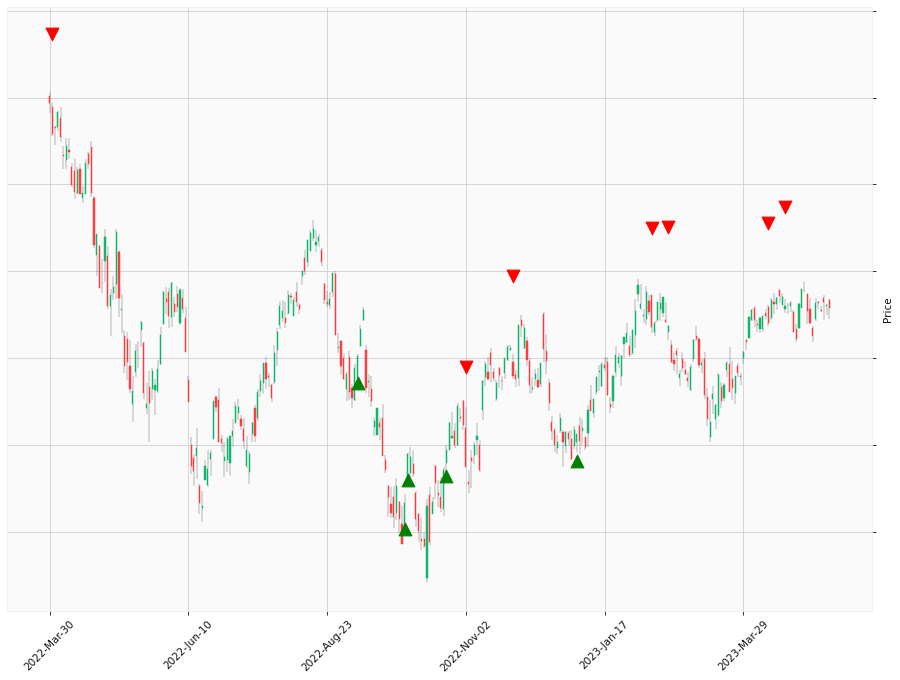
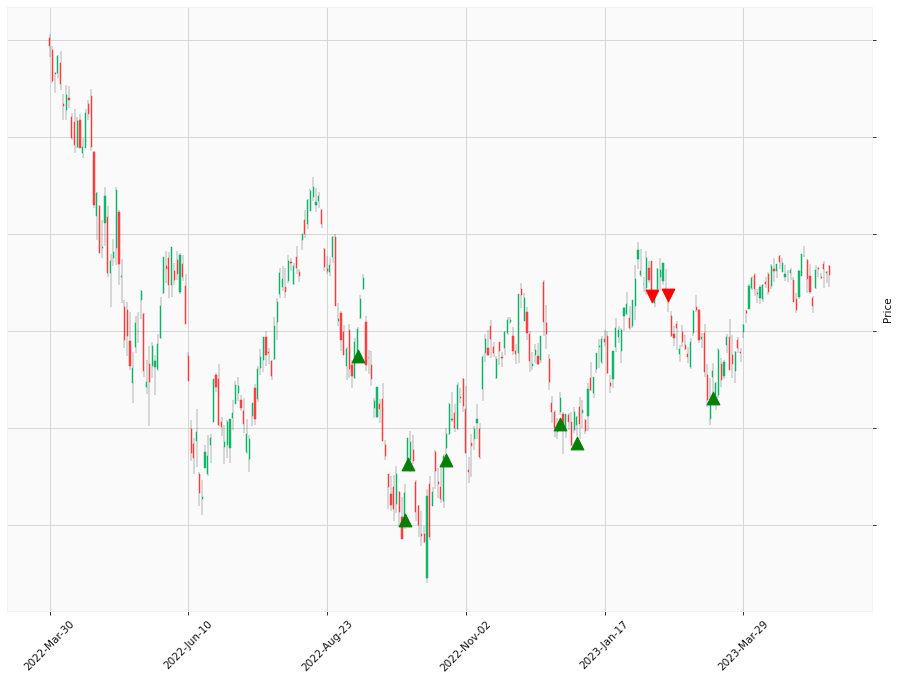
See https://github.com/HappyLabz/HappyLabz_v1/commit/cb9b6fe0ee2acf81d13b021fb5c5829de6719884 from refs/heads/main

diff --git a/index.md b/index.md
@@ -154,8 +154,8 @@ footer a {
     <div class="box gray">
         <h2 id="aapl"><a href="{% link AAPL.md %}">AAPL</a></h2>
         <ul>
-            <li>LAST: <b><span style="color: #ff0000;">Short</span></b> Apr 05 2023 15:00 PST</li>
-            <li>DELTA: <b><span style="color: #167816;">8.81 (5.38%)</span></b> as of close May 15 2023</li>
+            <li>LAST: <b><span style="color: #167816;">Long</span></b> Mar 02 2023 15:00 PST</li>
+            <li>DELTA: <b><span style="color: #167816;">26.66 (18.27%)</span></b> as of close May 15 2023</li>
         </ul>
     </div>
     <div class="box gray">
@@ -182,8 +182,8 @@ footer a {
     <div class="box gray">
         <h2 id="spy"><a href="{% link SPY.md %}">SPY</a></h2>
         <ul>
-            <li>LAST: <b><span style="color: #ff0000;">Short</span></b> Apr 20 2023 15:00 PST</li>
-            <li>DELTA: <b><span style="color: #ff0000;">-0.29 (-0.07%)</span></b> as of close May 15 2023</li>
+            <li>LAST: <b><span style="color: #167816;">Long</span></b> Mar 14 2023 15:00 PST</li>
+            <li>DELTA: <b><span style="color: #167816;">19.86 (5.07%)</span></b> as of close May 15 2023</li>
         </ul>
     </div>
     <div class="box gray">

diff --git a/SPY.md b/SPY.md
@@ -105,15 +105,7 @@ footer a {
     </tr>
     <tr>
         <td>Short</td>
-        <td>Nov 09 2021 15:00 PST</td>
-    </tr>
-    <tr>
-        <td>Short</td>
         <td>Nov 10 2021 15:00 PST</td>
-    </tr>
-    <tr>
-        <td>Short</td>
-        <td>Mar 31 2022 15:00 PST</td>
     </tr>
     <tr>
         <td>Long</td>
@@ -132,12 +124,8 @@ footer a {
         <td>Oct 24 2022 15:00 PST</td>
     </tr>
     <tr>
-        <td>Short</td>
-        <td>Nov 02 2022 15:00 PST</td>
-    </tr>
-    <tr>
-        <td>Short</td>
-        <td>Nov 28 2022 15:00 PST</td>
+        <td>Long</td>
+        <td>Dec 21 2022 15:00 PST</td>
     </tr>
     <tr>
         <td>Long</td>
@@ -152,12 +140,8 @@ footer a {
         <td>Feb 17 2023 15:00 PST</td>
     </tr>
     <tr>
-        <td>Short</td>
-        <td>Apr 12 2023 15:00 PST</td>
-    </tr>
-    <tr>
-        <td>Short</td>
-        <td>Apr 20 2023 15:00 PST</td>
+        <td>Long</td>
+        <td>Mar 14 2023 15:00 PST</td>
     </tr>
     
 </table>

diff --git a/AAPL.md b/AAPL.md
@@ -121,10 +121,6 @@ footer a {
     </tr>
     <tr>
         <td>Short</td>
-        <td>Aug 16 2022 15:00 PST</td>
-    </tr>
-    <tr>
-        <td>Short</td>
         <td>Aug 19 2022 15:00 PST</td>
     </tr>
     <tr>
@@ -137,23 +133,11 @@ footer a {
     </tr>
     <tr>
         <td>Long</td>
-        <td>Jan 05 2023 15:00 PST</td>
-    </tr>
-    <tr>
-        <td>Long</td>
         <td>Jan 06 2023 15:00 PST</td>
     </tr>
     <tr>
         <td>Long</td>
         <td>Mar 02 2023 15:00 PST</td>
-    </tr>
-    <tr>
-        <td>Short</td>
-        <td>Apr 04 2023 15:00 PST</td>
-    </tr>
-    <tr>
-        <td>Short</td>
-        <td>Apr 05 2023 15:00 PST</td>
     </tr>
     
 </table>
